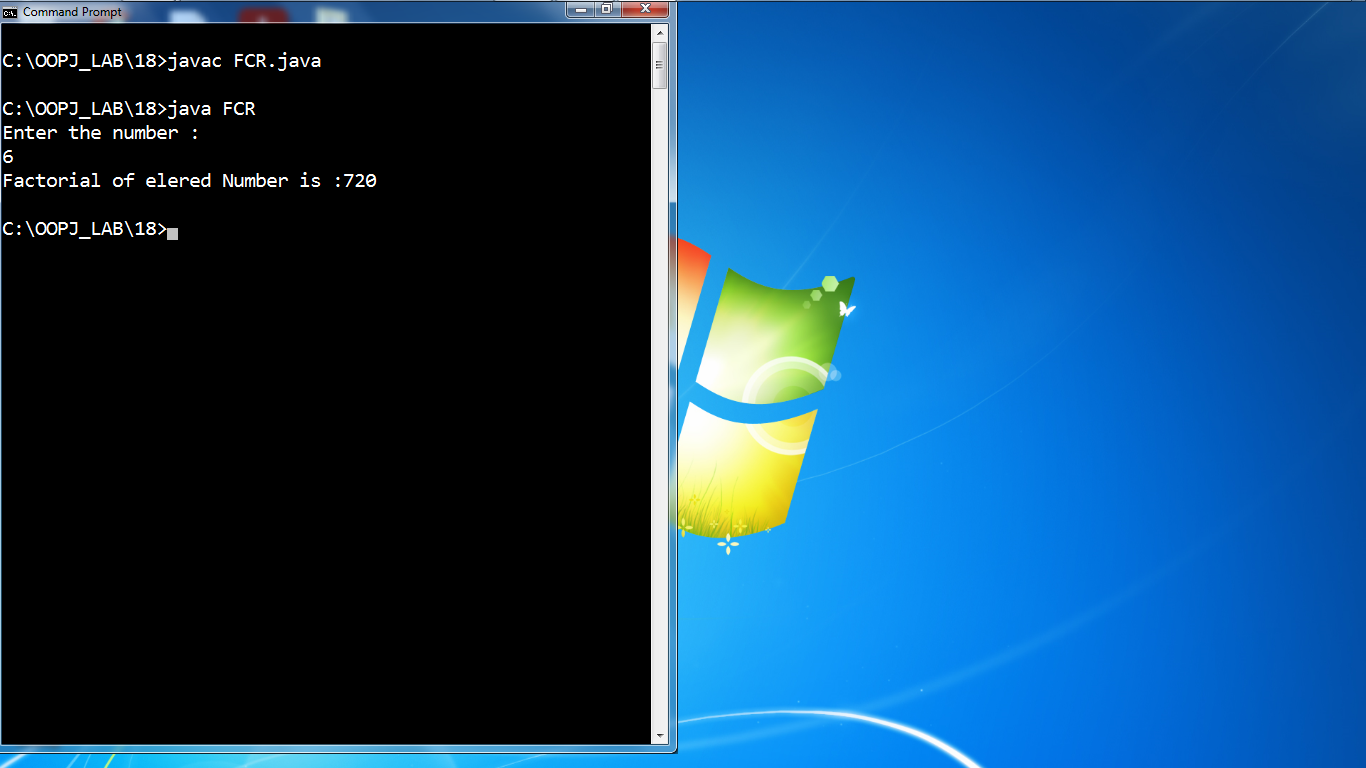
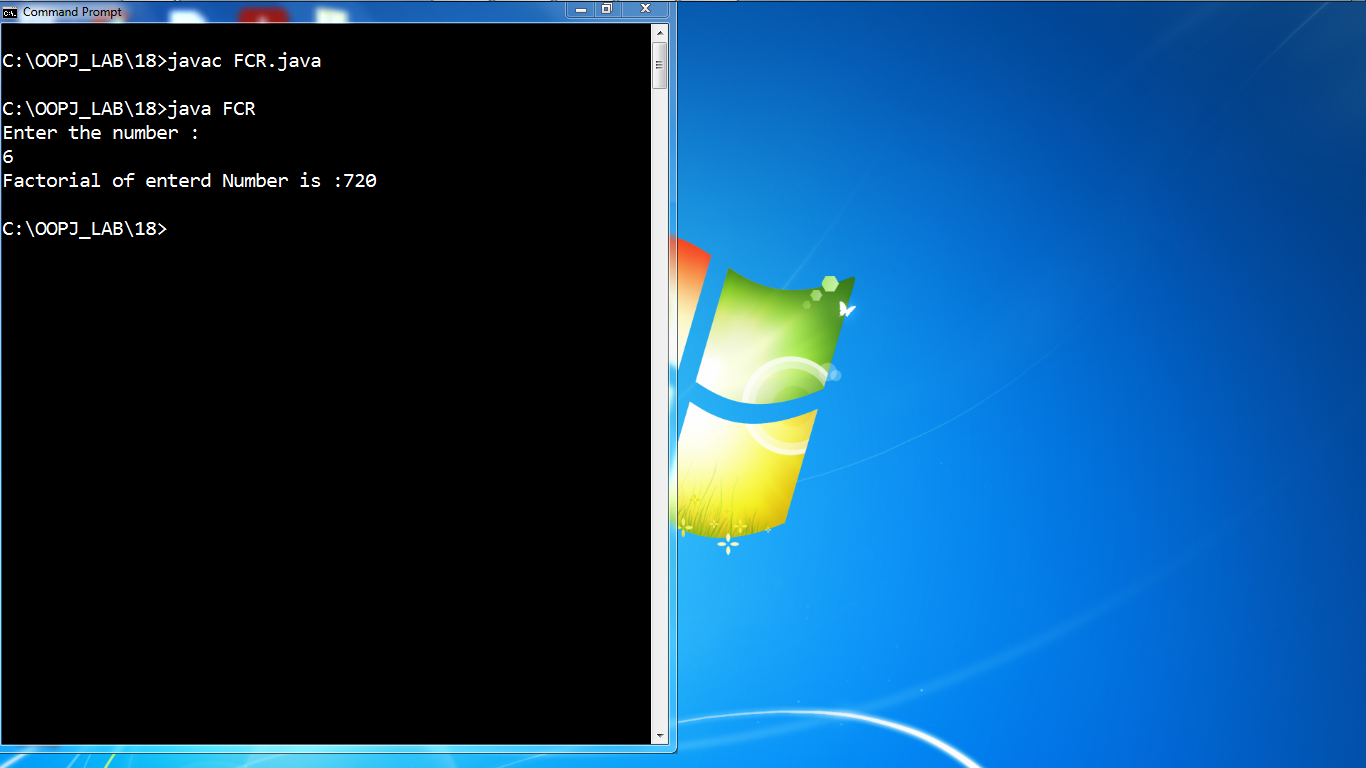
some updations on the 19th Program FCR
Factorial Using Recursion

diff --git a/index.html b/index.html
@@ -1111,7 +1111,7 @@ class FCR
 		System.out.println("Enter the number :");
 		int num = s.nextInt();
 		int factorial = fact(num);
-		System.out.println("Factorial of elered Number is :"+factorial);
+		System.out.println("Factorial of enterd Number is :"+factorial);
 	}
 	static int fact(int n)
 	{
